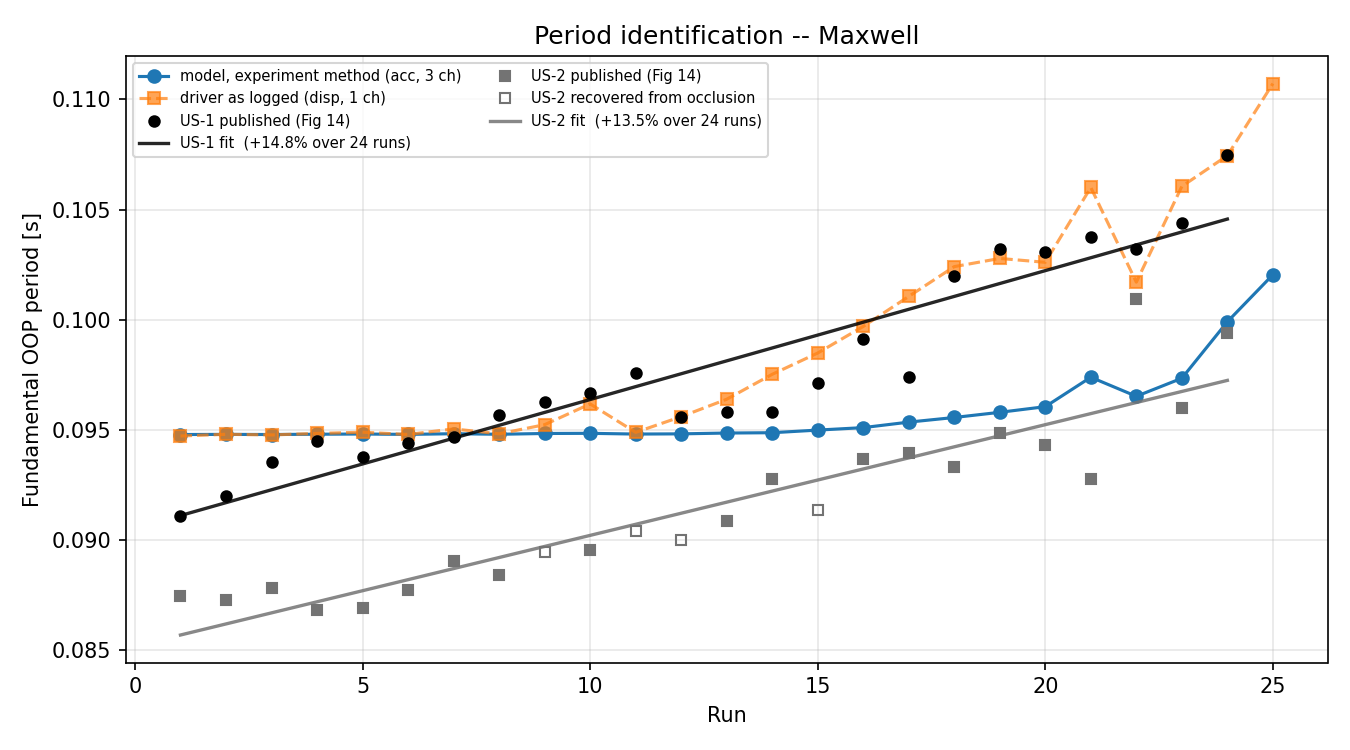
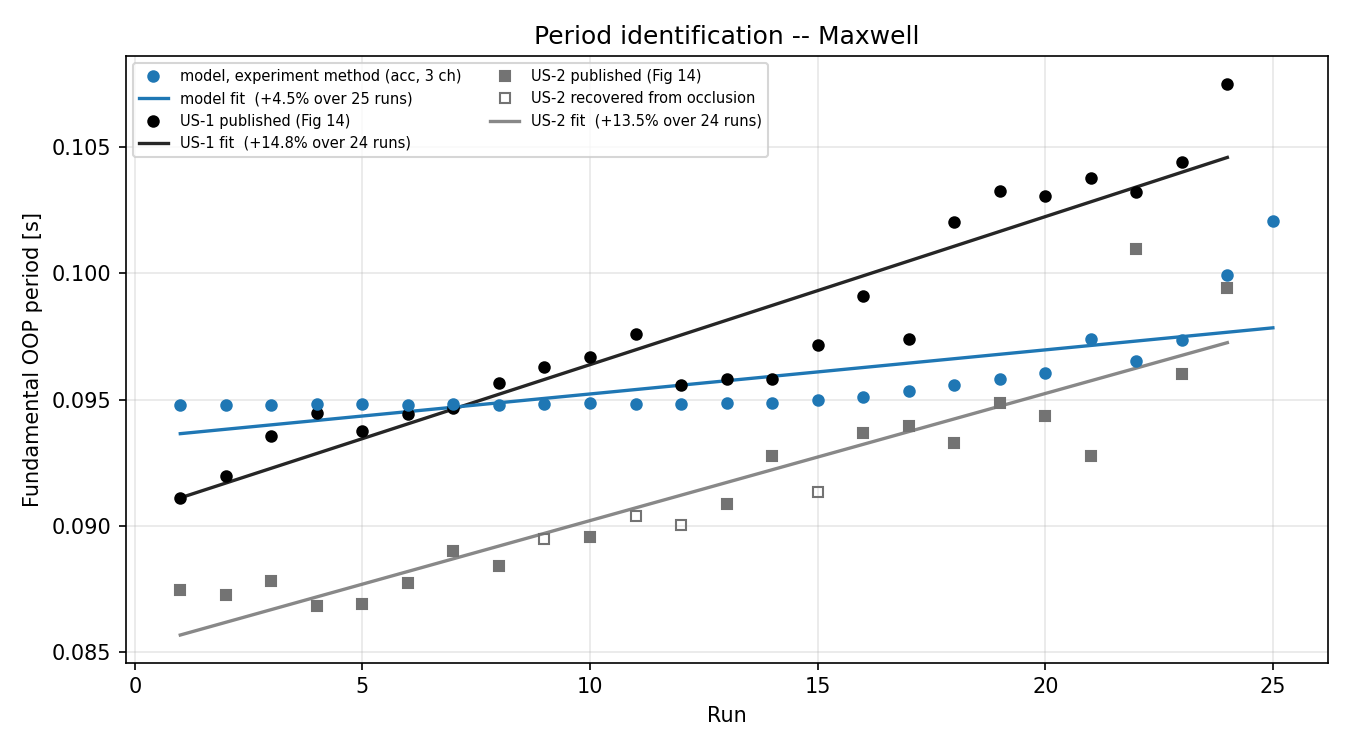
Revised strategy_C_3dec_Nodamp_Ls.PY

diff --git a/strategy_C_3dec_nodamp_LS.py b/strategy_C_3dec_nodamp_LS.py
@@ -46,6 +46,19 @@ import itasca as it
 import numpy as np
 import os, csv, math, json, sys
 
+# Experiment-matched period identification (Moshfeghi et al. 2024 sec. 3.2).
+# Guarded so a missing module degrades to the legacy estimator with a loud
+# warning rather than killing a 25-run sequence at run 1.
+try:
+    import period_id_exp
+    _HAVE_PERIOD_ID_EXP = True
+except Exception as _e:                                  # pragma: no cover
+    period_id_exp = None
+    _HAVE_PERIOD_ID_EXP = False
+    print("WARNING: period_id_exp not importable ({}). "
+          "Falling back to the legacy single-channel displacement "
+          "estimator.".format(_e))
+
 # >>> RATCHETING : make ratcheting_pulse.py importable and import it
 _here = os.getcwd()
 for _p in (_here, os.path.dirname(os.path.abspath(__file__)) if "__file__" in globals() else _here):
@@ -209,7 +222,7 @@ NCYC_BAND_RATIO    = 1.30    # band = [f1/ratio, f1*ratio]
 RECORD_TABLE = {"HU12": "vel_HU.txt", "EC40": "vel_EC.txt", "FR76": "vel_FR.txt"}
 _NCYC_CACHE = {}
 
-OUT_DIR = "stratC_results_NODAMP_v10_LS"
+OUT_DIR = "stratC_results_NODAMP_v10"
 
 # ---------------------------------------------------------------------
 # SENSITIVITY-SWEEP OVERRIDES
@@ -225,7 +238,25 @@ _OVERRIDABLE = ("OUT_DIR", "n_cycles", "xi", "delta_t", "tail_sec",
                 "inter_run_gap", "DAMP_RATIO", "DAMP_TYPE", "MAXWELL_CMD",
                 "USE_TWO_IM_CYCLES", "USE_RECORD_NCYCLES", "PERIOD_SCHEME",
                 "TID_AGREE_TOL", "TID_MAX_JUMP", "NCYC_MIN", "NCYC_MAX",
+                "LARGE_STRAIN", "PERIOD_ID_METHOD",
                 "T1_init", "BASE_SAVE", "CASE_ID")
+
+# ---------------------------------------------------------------------
+# PERIOD IDENTIFICATION METHOD
+# ---------------------------------------------------------------------
+#   "experiment" -- Moshfeghi et al. (2024) Structures 66:106815 section 3.2:
+#                   three accelerometers (bottom quarter 0.66 m, mid-height
+#                   1.26 m, top quarter 2.06 m), record cropped at the instant
+#                   the table stops, periodogram -> PSD matrix -> singular
+#                   values -> peak-picking, cross-checked against per-channel
+#                   FFT. Implemented in period_id_exp.py.
+#   "legacy"     -- the original single-channel DISPLACEMENT estimator
+#                   (Channel_19, autocorrelation + FFT).
+#
+# Both are computed and logged on every run regardless of this setting; this
+# only selects which value is fed back into the adaptive loop, so a completed
+# run set can be re-read either way without re-running anything.
+PERIOD_ID_METHOD = "experiment"
 
 PERIOD_SCHEME = "adaptive"   # "adaptive" = excite at the identified T_current
                              # "fixed"    = excite at T1_init every run (T_eq
@@ -233,9 +264,16 @@ PERIOD_SCHEME = "adaptive"   # "adaptive" = excite at the identified T_current
                              #              as a damage measure)
 MAXWELL_CMD   = ""           # non-empty -> issued verbatim after local/global
                              # damping are zeroed
+LARGE_STRAIN  = "off"        # "on" updates block positions and re-detects
+                             # contacts, so toe contact area can reduce and the
+                             # restoring action becomes geometric. Required for
+                             # large-amplitude rocking; costs solve time.
+                             # Applied AFTER the Part-I restore, so no rebuild
+                             # is needed and the static build stays in
+                             # small-strain where it belongs.
 CASE_ID       = ""           # free-text label echoed into the log
 
-_OVR_FILE = "stratC_overrides_g00.json"
+_OVR_FILE = "stratC_overrides.json"
 if os.path.exists(_OVR_FILE):
     try:
         with open(_OVR_FILE) as _f:
@@ -337,6 +375,26 @@ def ch19_csv_path(run_no, record=None, scale=None):
     # Last resort: flat path (the caller already handles a missing file).
     return os.path.join(OUT_DIR,
         "Channel_19_DispTopQRight_run{:02d}.csv".format(run_no))
+
+def run_label(run_no, record, scale):
+    """The label the FISH export prefixes every channel file with."""
+    return "Run{:02d}_{}_s{}".format(
+        run_no, record, "{:.2f}".format(scale).replace(".", "p"))
+
+def run_dir(run_no, record=None, scale=None):
+    """Per-run output folder. Same fallback discipline as ch19_csv_path: try
+    the expected name, then any folder starting with Run{nn}_, so a renamed or
+    differently-scaled folder does not silently break period identification."""
+    if record is not None and scale is not None:
+        d = os.path.join(OUT_DIR, run_label(run_no, record, scale))
+        if os.path.isdir(d):
+            return d
+    prefix = "Run{:02d}_".format(run_no)
+    if os.path.isdir(OUT_DIR):
+        for d in sorted(os.listdir(OUT_DIR)):
+            if d.startswith(prefix) and os.path.isdir(os.path.join(OUT_DIR, d)):
+                return os.path.join(OUT_DIR, d)
+    return OUT_DIR
 
 def state_file_path():
     return os.path.join(OUT_DIR, STATE_FILE_NAME)
@@ -819,6 +877,13 @@ def export_all_histories(run_no, record, scale, out_dir):
 # =====================================================================
 def setup_model_for_dynamic(save_file):
     it.command("model restore '{}'".format(cmd_path(save_file)))
+    if str(LARGE_STRAIN).lower() in ("on", "true", "1"):
+        it.command("model large-strain on")
+        print("  GEOMETRY: large-strain ON (positions updated, contacts "
+              "re-detected)")
+    else:
+        it.command("model large-strain off")
+        print("  GEOMETRY: small-strain (default)")
     it.command("model dynamic active on")
     it.command("""
     block contact group 'Joist_S1_contact' range pos-y 0.25 0.3 pos-z 0.9 1.5
@@ -911,9 +976,69 @@ def execute_run(run_no, record, scale, T_current):
     export_all_histories(run_no, record, scale, OUT_DIR)
 
     ringdown_start = sine_dur
-    T_end = identify_Tend_from_csv(ch19_csv_path(run_no, record, scale),
-                                   ringdown_start, T_prev=T_current)
-    print("  T_end = {:.4f} s  ({:.2f}x T_init)".format(T_end, T_end/T1_init))
+
+    # --- Period identification -----------------------------------------
+    # Both estimators run on every run. The legacy one reads a single
+    # DISPLACEMENT channel; the experiment one reads the three accelerometers
+    # the way Moshfeghi et al. (2024) section 3.2 describes. They are not
+    # measuring the same thing: a post-rocking ring-down carries a large,
+    # heavily damped rigid-body transient on top of the small elastic
+    # vibration, and in displacement that transient dominates a short window.
+    # See period_id_exp._selftest(), which reproduces run 12's T_end = 0.218 s
+    # from a synthetic signal whose true elastic period is 0.104 s.
+    T_legacy = identify_Tend_from_csv(ch19_csv_path(run_no, record, scale),
+                                      ringdown_start, T_prev=T_current)
+    _exp = {"T": float("nan"), "ok": False, "spread": float("nan"),
+            "window_s": 0.0, "T_welch": float("nan"), "note": "module missing"}
+    if _HAVE_PERIOD_ID_EXP:
+        _exp = period_id_exp.identify_period_experiment(
+            run_dir(run_no, record, scale), run_label(run_no, record, scale))
+
+    # --- selection rule: seed on run 1, then TRACK the same mode ---------
+    # pick_fundamental returns the tallest phase-coherent peak. On the
+    # EXPERIMENT's own records that rule returns 0.0533 s for run 1, where
+    # Table 5 says 0.091 -- it locks onto the timber-floor mode at 18.76 Hz,
+    # which is taller than the wall's 10.97 Hz and sits at a non-integer ratio
+    # so no harmonic guard can reject it. Seeding once and following the same
+    # mode forward reproduces Table 5 to +0.2% / +1.3% at the two endpoints.
+    #
+    # T_current is the driver's own running period, so the anchor is already
+    # maintained. Nothing extra has to be tracked.
+    _cl = _exp.get("candidates") or []
+    if _HAVE_PERIOD_ID_EXP and _cl:
+        if run_no <= 1 or not (T_current and np.isfinite(T_current)):
+            _T_sel = period_id_exp.seed_period(_cl)
+            _sel_rule = "seed"
+        else:
+            _T_sel, _rec = period_id_exp.track_step(_cl, T_current)
+            _sel_rule = "track"
+        if np.isfinite(_T_sel):
+            _exp["T"] = _T_sel
+            _exp["ok"] = True
+            _exp["note"] = (_exp["note"] + " | " + _sel_rule).strip(" |")
+
+    if PERIOD_ID_METHOD == "experiment" and _exp["ok"]:
+        T_end = _exp["T"]
+        _tid_src = "exp_psd_svd"
+    elif PERIOD_ID_METHOD == "experiment":
+        # The experiment's own acceptance test (PSD vs per-channel FFT) failed.
+        # Fall back rather than propagate a number the paper's method would
+        # itself have rejected, and say so in the log.
+        T_end = T_legacy
+        _tid_src = "legacy_fallback:" + str(_exp["note"])
+        print("  ** experiment-method identification rejected ({}). "
+              "Using legacy value {:.5f} s.".format(_exp["note"], T_legacy))
+    else:
+        T_end = T_legacy
+        _tid_src = "legacy"
+
+    print("  T_end = {:.4f} s  ({:.2f}x T_init)   [{}]".format(
+        T_end, T_end / T1_init, _tid_src))
+    if _HAVE_PERIOD_ID_EXP and np.isfinite(_exp["T"]):
+        print("     legacy(disp,1ch) = {:.5f} s   experiment(acc,3ch) = {:.5f} s"
+              "   ratio = {:.2f}".format(
+                  T_legacy, _exp["T"],
+                  _exp["T"] / T_legacy if T_legacy else float("nan")))
 
     it.command("table '{}' delete".format(tbl_name))
     it.command("history delete")
@@ -940,6 +1065,13 @@ def execute_run(run_no, record, scale, T_current):
         "T_acorr": round(_LAST_T_ACORR, 6),
         "T_fft": round(_LAST_T_FFT, 6),
         "tid_note": _LAST_TID_NOTE,
+        # --- both estimators logged on every run, always ------------------
+        "T_legacy_disp": round(T_legacy, 6),
+        "T_exp_psd": round(_exp["T"], 6) if np.isfinite(_exp["T"]) else "",
+        "T_exp_welch": round(_exp["T_welch"], 6) if np.isfinite(_exp["T_welch"]) else "",
+        "T_exp_ch_spread": round(_exp["spread"], 4) if np.isfinite(_exp["spread"]) else "",
+        "T_exp_window_s": round(_exp["window_s"], 4),
+        "tid_source": _tid_src,
         # >>> RATCHETING : record the asymmetry applied
         "beta_applied": round(pinfo["beta"], 4),
         "s_applied": pinfo["s"],
